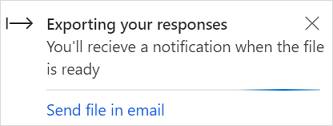
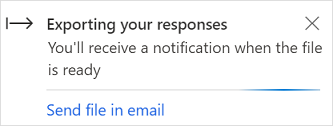
minor updates

Changed region(s): [[0.1201, 0.3095, 0.991, 0.4286], [0.1201, 0.5, 0.3003, 0.6429]]

diff --git a/cv-docs/personalize-survey.md b/cv-docs/personalize-survey.md
@@ -77,10 +77,10 @@ You can also use variables in [branching rules](create-branching-rule.md), in [s
 
     The variable is added within curly braces.
 
-For example, let's say that you've created a variable named **Product** and that you want to display the customer's first name and the product name in a question. Select **First Name** and **Product** from the **Variables** list. *{{First Name}}* and *{{Product Name}}* are inserted at the cursor location.
+For example, let's say that you've created a variable named **Product** and that you want to display the customer's first name and the product name in a question. Select **First Name** and **Product** from the **Variables** list. *{{First Name}}* and *{{Product}}* are inserted at the cursor location.
 
-Le    's say the question is:
-*{{First Name}}*, overall, how would you rate your experience with customer service for *{{Product Name}}*?
+Let's say the question is:
+*{{First Name}}*, overall, how would you rate your experience with customer service for *{{Product}}*?
 
 That question will look like this when a customer named Bert Hair takes the survey for a product named Contoso Sales:
     

diff --git a/cv-docs/survey-report.md b/cv-docs/survey-report.md
@@ -66,11 +66,6 @@ If there are more than 5,000 responses, you can choose to export responses to an
 
    A notification is displayed in the upper-right corner when the responses are being exported and after the export is complete. If you choose to export to CSV, the notification contains a link that allows you to send the CSV file to your email address.
 
-
-<!-- Note that "receive" is misspelled as "recieve" in this image. Is it possible to correct that? -->
-
-
-
    ![Surveys being exported to CSV](media/export-csv-notif.png "Surveys being exported to CSV")
 
    Select **Send file in email**, and confirm the email address in the **Confirm email address** dialog box.
